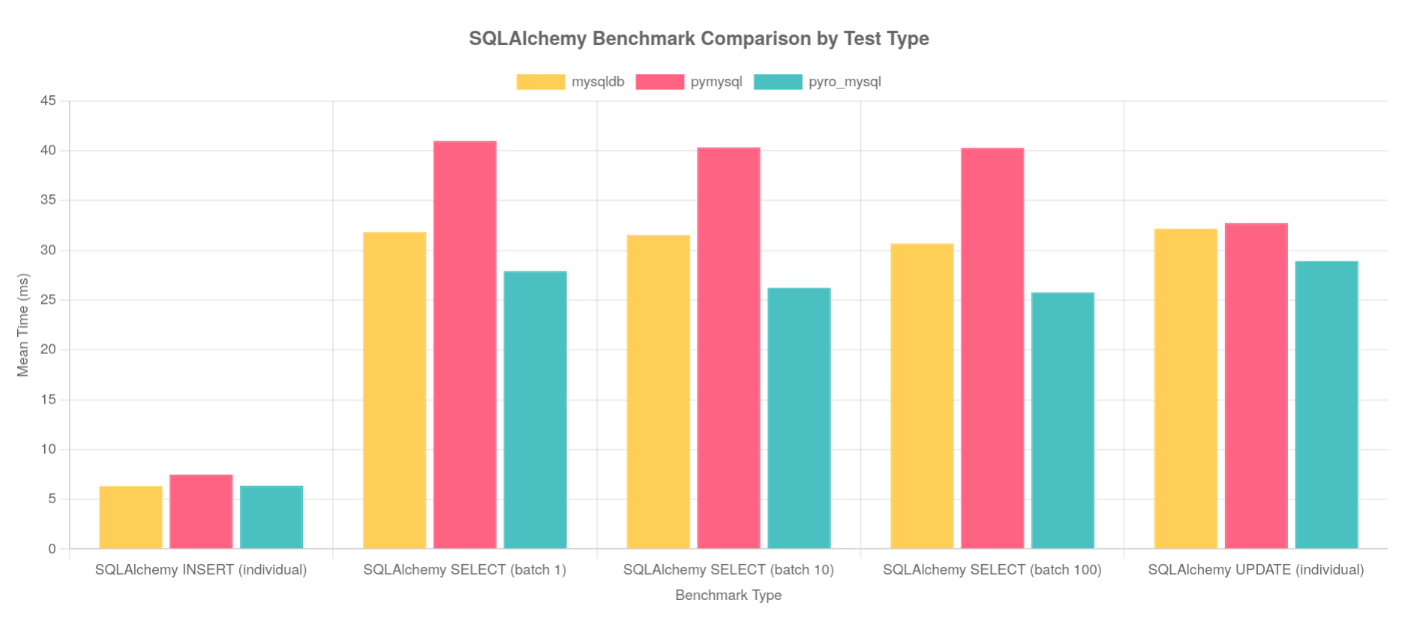
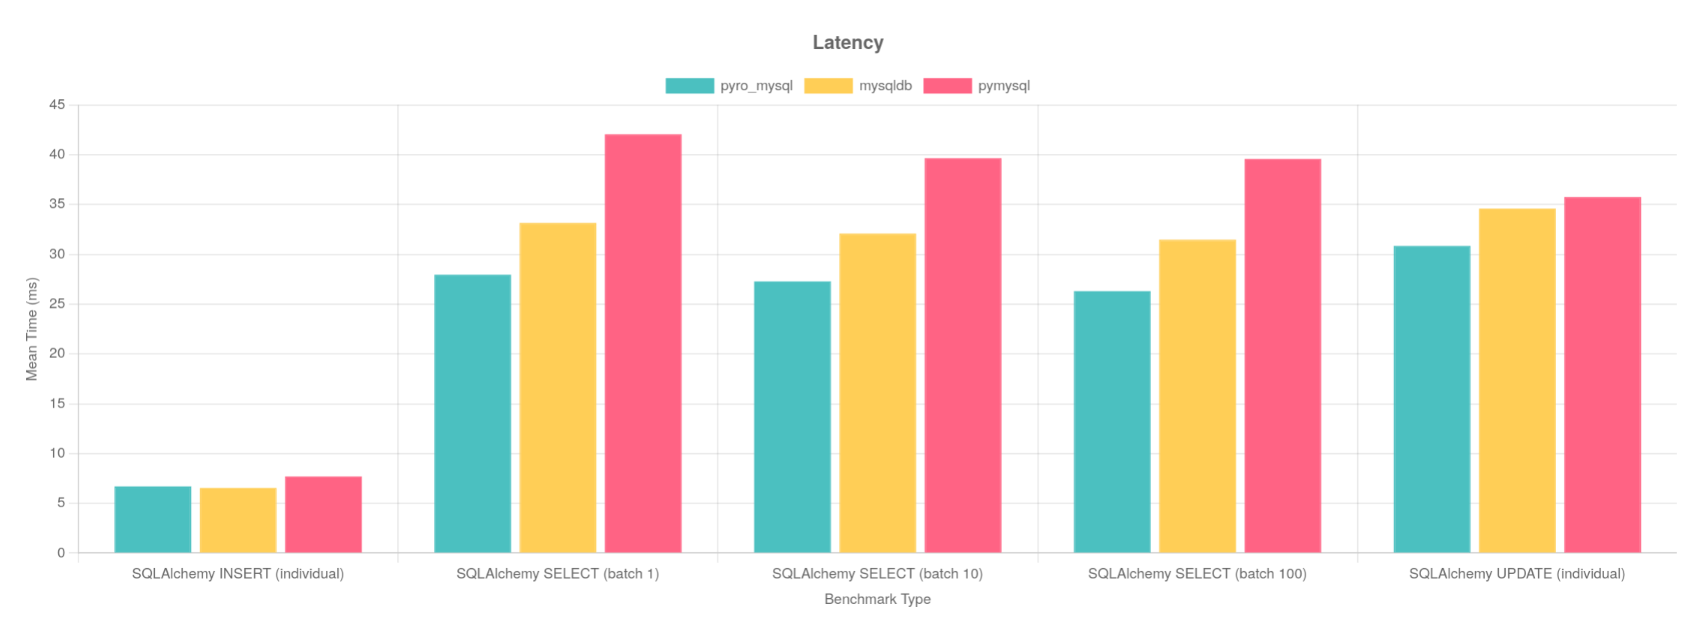
Update chart

diff --git a/report/chart_sqlalchemy.html b/report/chart_sqlalchemy.html
@@ -2,236 +2,165 @@
 <html lang="en">
 
 <head>
-    <meta charset="UTF-8">
-    <meta name="viewport" content="width=device-width, initial-scale=1.0">
-    <title>SQLAlchemy Benchmark - pyro-mysql</title>
-    <script src="https://cdn.jsdelivr.net/npm/chart.js"></script>
-    <style>
-        body {
-            font-family: 'Segoe UI', Tahoma, Geneva, Verdana, sans-serif;
-            margin: 20px;
-            background: #f5f5f5;
-        }
+  <meta charset="UTF-8">
+  <meta name="viewport" content="width=device-width, initial-scale=1.0">
+  <title>SQLAlchemy Benchmark - pyro-mysql</title>
+  <script src="https://cdn.jsdelivr.net/npm/chart.js"></script>
+  <style>
+    body {
+      font-family: 'Segoe UI', Tahoma, Geneva, Verdana, sans-serif;
+      margin: 20px;
+      background: #f5f5f5;
+    }
 
-        h1 {
-            text-align: center;
-            color: #333;
-        }
+    h1 {
+      text-align: center;
+      color: #333;
+    }
 
-        .chart-container {
-            position: relative;
-            height: 500px;
-            background: white;
-            padding: 20px;
-            border-radius: 8px;
-            box-shadow: 0 2px 4px rgba(0, 0, 0, 0.1);
-            margin-bottom: 30px;
-        }
+    .chart-container {
+      position: relative;
+      height: 500px;
+      background: white;
+      padding: 20px;
+      border-radius: 8px;
+      box-shadow: 0 2px 4px rgba(0, 0, 0, 0.1);
+      margin-bottom: 30px;
+    }
 
-        .summary {
-            background: white;
-            padding: 20px;
-            border-radius: 8px;
-            box-shadow: 0 2px 4px rgba(0, 0, 0, 0.1);
-            margin-bottom: 30px;
-        }
+    .summary {
+      background: white;
+      padding: 20px;
+      border-radius: 8px;
+      box-shadow: 0 2px 4px rgba(0, 0, 0, 0.1);
+      margin-bottom: 30px;
+    }
 
-        .legend {
-            display: flex;
-            justify-content: center;
-            flex-wrap: wrap;
-            gap: 20px;
-            margin: 20px 0;
-        }
+    .legend {
+      display: flex;
+      justify-content: center;
+      flex-wrap: wrap;
+      gap: 20px;
+      margin: 20px 0;
+    }
 
-        .legend-item {
-            display: flex;
-            align-items: center;
-            gap: 8px;
-        }
+    .legend-item {
+      display: flex;
+      align-items: center;
+      gap: 8px;
+    }
 
-        .legend-color {
-            width: 20px;
-            height: 20px;
-            border-radius: 3px;
-        }
-    </style>
+    .legend-color {
+      width: 20px;
+      height: 20px;
+      border-radius: 3px;
+    }
+  </style>
 </head>
 
 <body>
-    <h1>SQLAlchemy Benchmark - pyro-mysql vs mysqldb vs pymysql</h1>
+  <h1>SQLAlchemy Benchmark</h1>
 
-    <div class="chart-container">
-        <canvas id="benchmarkChart"></canvas>
-    </div>
+  <div class="chart-container">
+    <canvas id="benchmarkChart"></canvas>
+  </div>
 
-    <div class="chart-container">
-        <canvas id="comparisonChart"></canvas>
-    </div>
+  <script>
+    // Benchmark data
+    const benchmarkData = {
+      "SQLAlchemy INSERT (individual)": {
+        "pyro_mysql": 6.696,
+        "mysqldb": 6.549,
+        "pymysql": 7.694,
+      },
+      "SQLAlchemy SELECT (batch 1)": {
+        "pyro_mysql": 27.955,
+        "mysqldb": 33.149,
+        "pymysql": 42.050,
+      },
+      "SQLAlchemy SELECT (batch 10)": {
+        "pyro_mysql": 27.283,
+        "mysqldb": 32.086,
+        "pymysql": 39.653,
+      },
+      "SQLAlchemy SELECT (batch 100)": {
+        "pyro_mysql": 26.304,
+        "mysqldb": 31.470,
+        "pymysql": 39.569,
+      },
+      "SQLAlchemy UPDATE (individual)": {
+        "pyro_mysql": 30.840,
+        "mysqldb": 34.595,
+        "pymysql": 35.764,
+      }
+    };
 
-    <script>
-        // Benchmark data
-        const benchmarkData = {
-            "SQLAlchemy INSERT (individual)": {
-                "mysqldb": 6.329,
-                "pymysql": 7.479,
-                "pyro_mysql": 6.381,
-            },
-            "SQLAlchemy SELECT (batch 1)": {
-                "mysqldb": 31.844,
-                "pymysql": 40.994,
-                "pyro_mysql": 27.924,
-            },
-            "SQLAlchemy SELECT (batch 10)": {
-                "mysqldb": 31.548,
-                "pymysql": 40.338,
-                "pyro_mysql": 26.231,
-            },
-            "SQLAlchemy SELECT (batch 100)": {
-                "mysqldb": 30.690,
-                "pymysql": 40.305,
-                "pyro_mysql": 25.796,
-            },
-            "SQLAlchemy UPDATE (individual)": {
-                "mysqldb": 32.175,
-                "pymysql": 32.751,
-                "pyro_mysql": 28.934,
+    const libraries = ["pyro_mysql", "mysqldb", "pymysql"];
+    const benchmarks = Object.keys(benchmarkData);
+    const colors = {
+      "mysqldb": "#FFCE56",
+      "pymysql": "#FF6384",
+      "pyro_mysql": "#4BC0C0"
+    };
+
+    // Prepare datasets for grouped bar chart
+    const datasets = libraries.map(lib => ({
+      label: lib,
+      data: benchmarks.map(bench => benchmarkData[bench][lib]),
+      backgroundColor: colors[lib],
+      borderColor: colors[lib],
+      borderWidth: 1
+    }));
+
+    // Create grouped bar chart
+    const ctx1 = document.getElementById('benchmarkChart').getContext('2d');
+    new Chart(ctx1, {
+      type: 'bar',
+      data: {
+        labels: benchmarks,
+        datasets: datasets
+      },
+      options: {
+        responsive: true,
+        maintainAspectRatio: false,
+        plugins: {
+          title: {
+            display: true,
+            text: 'Latency',
+            font: {
+              size: 16
             }
-        };
-
-        const libraries = ["mysqldb", "pymysql", "pyro_mysql"];
-        const benchmarks = Object.keys(benchmarkData);
-        const colors = {
-            "mysqldb": "#FFCE56",
-            "pymysql": "#FF6384",
-            "pyro_mysql": "#4BC0C0"
-        };
-
-        // Prepare datasets for grouped bar chart
-        const datasets = libraries.map(lib => ({
-            label: lib,
-            data: benchmarks.map(bench => benchmarkData[bench][lib]),
-            backgroundColor: colors[lib],
-            borderColor: colors[lib],
-            borderWidth: 1
-        }));
-
-        // Create grouped bar chart
-        const ctx1 = document.getElementById('benchmarkChart').getContext('2d');
-        new Chart(ctx1, {
-            type: 'bar',
-            data: {
-                labels: benchmarks,
-                datasets: datasets
-            },
-            options: {
-                responsive: true,
-                maintainAspectRatio: false,
-                plugins: {
-                    title: {
-                        display: true,
-                        text: 'SQLAlchemy Benchmark Comparison by Test Type',
-                        font: {
-                            size: 16
-                        }
-                    },
-                    legend: {
-                        display: true,
-                        position: 'top'
-                    },
-                    tooltip: {
-                        callbacks: {
-                            label: function (context) {
-                                return context.dataset.label + ': ' + context.parsed.y.toFixed(3) + ' ms';
-                            }
-                        }
-                    }
-                },
-                scales: {
-                    y: {
-                        beginAtZero: true,
-                        title: {
-                            display: true,
-                            text: 'Mean Time (ms)'
-                        }
-                    },
-                    x: {
-                        title: {
-                            display: true,
-                            text: 'Benchmark Type'
-                        }
-                    }
-                }
+          },
+          legend: {
+            display: true,
+            position: 'top'
+          },
+          tooltip: {
+            callbacks: {
+              label: function (context) {
+                return context.dataset.label + ': ' + context.parsed.y.toFixed(3) + ' ms';
+              }
             }
-        });
-
-        // Create horizontal bar chart for average performance
-        const avgPerformance = {};
-        libraries.forEach(lib => {
-            let sum = 0;
-            benchmarks.forEach(bench => {
-                sum += benchmarkData[bench][lib];
-            });
-            avgPerformance[lib] = sum / benchmarks.length;
-        });
-
-        const ctx2 = document.getElementById('comparisonChart').getContext('2d');
-        new Chart(ctx2, {
-            type: 'bar',
-            data: {
-                labels: Object.keys(avgPerformance).sort((a, b) => avgPerformance[a] - avgPerformance[b]),
-                datasets: [{
-                    label: 'Average Mean Time',
-                    data: Object.keys(avgPerformance).sort((a, b) => avgPerformance[a] - avgPerformance[b])
-                        .map(lib => avgPerformance[lib]),
-                    backgroundColor: Object.keys(avgPerformance).sort((a, b) => avgPerformance[a] - avgPerformance[b])
-                        .map(lib => colors[lib]),
-                    borderColor: Object.keys(avgPerformance).sort((a, b) => avgPerformance[a] - avgPerformance[b])
-                        .map(lib => colors[lib]),
-                    borderWidth: 1
-                }]
-            },
-            options: {
-                indexAxis: 'y',
-                responsive: true,
-                maintainAspectRatio: false,
-                plugins: {
-                    title: {
-                        display: true,
-                        text: 'Average Performance Ranking (Lower is Better)',
-                        font: {
-                            size: 16
-                        }
-                    },
-                    legend: {
-                        display: false
-                    },
-                    tooltip: {
-                        callbacks: {
-                            label: function (context) {
-                                return context.parsed.x.toFixed(3) + ' ms';
-                            }
-                        }
-                    }
-                },
-                scales: {
-                    x: {
-                        beginAtZero: true,
-                        title: {
-                            display: true,
-                            text: 'Average Mean Time (ms)'
-                        }
-                    },
-                    y: {
-                        title: {
-                            display: true,
-                            text: 'Library'
-                        }
-                    }
-                }
+          }
+        },
+        scales: {
+          y: {
+            beginAtZero: true,
+            title: {
+              display: true,
+              text: 'Mean Time (ms)'
             }
-        });
-    </script>
+          },
+          x: {
+            title: {
+              display: true,
+              text: 'Benchmark Type'
+            }
+          }
+        }
+      }
+    });
+  </script>
 </body>
 
 </html>
